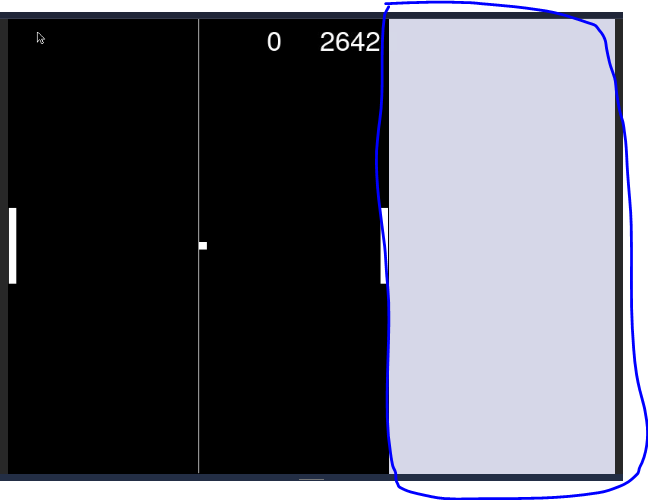
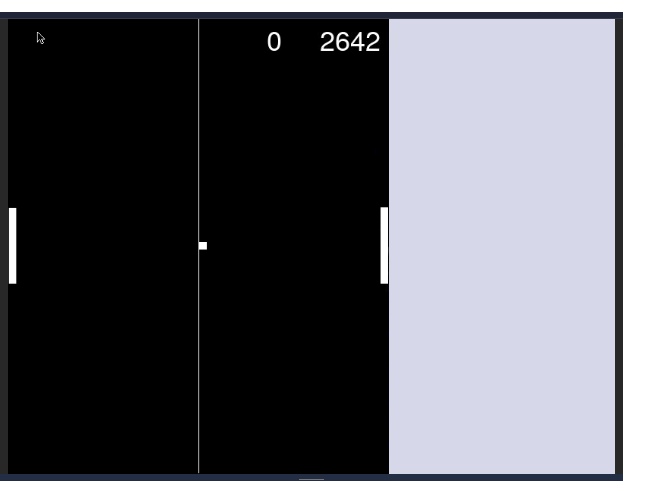
Clean up Images, Add Syntax Highlighting, Fix Spelling and Grammar (#211)
* Create image with cleaner highlight rectangle
* Spelling and grammar fixes
* Preserve old image without rectangle highlight
* Syntax highlighting for code snippets
* Update content/english/pygame-pong/Wrapup.md
* Add color picker

diff --git a/content/english/pygame-pong/the-basics.md b/content/english/pygame-pong/the-basics.md
@@ -8,17 +8,17 @@ draft: false
 ## Classes and objects
 Before you start building a game, you should know how to draw different objects and modify them as per the way they need to look and move on computer screen. 
 
-In order to build objects you first decide how they should look, what role they would perform in your game and how player can control their movement on screen. You do this by creating a class for each object you want on screen. 
-Before objects are created in a program you must define their class. A class is what tells how an individual object would look and behave. It contains the attributes and methods that its object can use during the lifetime of a program (in this case it is Pong game). You need to define class once and you can create as many objects you wish from that class. 
+In order to build objects, you first decide how they should look, what role they should perform in your game, and how player can control their movement on screen. You do this by creating a class for each object you want on screen. 
+Before objects are created in a program you must define their class. A class is what tells how an individual object will look and behave. It contains the attributes and methods that its object can use during the lifetime of a program (in this case it is Pong game). You only need to define a class once then you can use that class to create as many objects as you wish. 
 
-You cannot use class directly in a program, a class must have an object as its manifestation that is used in program. 
-All aspects related to visuals and movement we can call them as attribute of the object that you see on computer screen. 
-All aspects related to control of object we can call as them functions of the object. 
+You cannot use a class directly in a program; a class must have an object as its manifestation that is used in program. 
+All aspects related to visuals and movement are called the `"attributes"` of the object that you see on computer screen. 
+All aspects related to control of an object are called `"functions"` of the object. 
 
 
-## First, define the class for paddle used in game. To do this, let's type in:
+## First, define the class for paddle used in game. To do this, type in the following:
 
-```
+```python
 class Paddle(pygame.Rect):
     def __init__(self, velocity, up_key, down_key, *args, **kwargs):
         self.velocity = velocity
@@ -45,16 +45,16 @@ Let's try to understand the code in more detail.
 ## Name the class
 `class Paddle(pygame.Rect)`
 
-This is how you name the class `"Paddle"`. Now, notice the `pygame.Rect` inside `()`. You might have already imagined that in order to draw the paddle on a computer screen you need to draw it like a rectangle, then define its dimensions and position on screen to make it look like a paddle. The `(pygame.Rect)` statement would allow us to tell Python compiler to have this object draw like a rectangle and provide all rectangle's attributes to it like `WIDTH` and `HEIGHT`. This helps us utilising all attributes available to `Rectangle` class in Pygame library. 
+This is how you name the class `"Paddle"`. Now, notice the `pygame.Rect` inside `()`. You might have already imagined that in order to draw the paddle on a computer screen you need to draw it like a rectangle, then define its dimensions and position on screen to make it look like a paddle. The `(pygame.Rect)` statement allows us to tell the Python compiler to draw this object like a rectangle and provide all rectangle's attributes to it like `WIDTH` and `HEIGHT`. This helps us make use of all attributes available to the `Rectangle` class in the Pygame library. 
 
 ## Add attributes
 `def __init__(self, velocity, up_key, down_key, *args, **kwargs):`
 
-Dont worry about `args` and `kwargs` for now and focus on core attributes of `Paddle` class. 
+Don't worry about `args` and `kwargs` for now and focus on core attributes of `Paddle` class. 
 
-`__init__` function allow you to setup the class with attributes you need to see in objects. You can define additional attributes here on top of what you already get from `Rectangle` class. Lets add attributes like `velocity` , `up_key`, `down_key` to represent the speed at which paddle can move, keys needed for upward and downward movement of paddle. 
+`__init__` function allows you to setup the class with attributes you need to see in objects. You can define additional attributes here on top of what you already get from `Rectangle` class. Let's add attributes like `velocity`, `up_key`, `down_key` to represent the speed at which paddle can move, and the keys needed for upward and downward movement of the paddle. 
 
-```
+```python
 class Paddle(pygame.Rect):
     def __init__(self, velocity, up_key, down_key, *args, **kwargs):
         self.velocity = velocity
@@ -64,9 +64,9 @@ class Paddle(pygame.Rect):
 ```
 ## Add methods
 
-`move_paddle()` is a **method.**  We use this method to get paddle to perform move actions. In this case, `move_paddle()` is helping move paddle upward or downward depending on the key we press for respective direction at a certain speed.
+`move_paddle()` is a **method.**  We use this method to get paddle to perform move actions. In this case, `move_paddle()` moves the paddle upward or downward depending on the key we pressed, and at a certain speed.
 
-```
+```python
 def move_paddle(self, board_height):
         keys_pressed = pygame.key.get_pressed()
         if keys_pressed[self.up_key]:
@@ -79,4 +79,4 @@ def move_paddle(self, board_height):
 
 {{% /notice %}}
 
-Now that you have defined how a paddle should look like and how it should move, feel free to take a look at classes for `Ball` and `Pong`. In next Activities you will modify certain aspects of these classes to make the Pong game work for you.
+Now that you have defined how a paddle should look and how it should move, feel free to take a look at classes for `Ball` and `Pong`. In the next activities, you will modify certain aspects of these classes to make the Pong game work for you.

diff --git a/content/english/pygame-pong/using-repl-it.md b/content/english/pygame-pong/using-repl-it.md
@@ -5,13 +5,13 @@ weight: 1
 draft: false
 ---
 
-To build our game we will use the Pygame library, which provides a set of readymade functionality that we can use to build video games and animations.
+To build our game, we will use the Pygame library, which provides a set of readymade functionality that we can use to build Pong and its animations.
 
 ## Using Repl.it
 
-Today you will be using Repl.it to build the Pong game.
+Today, you will be using Repl.it to build the Pong game.
 
-If you would like to re-cap on how to use Repl.it. Checkout the following Python basics [tutorial](https://workshops.nuevofoundation.org/python-basics/repl-it/)
+If you would like a re-cap on how to use Repl.it, check out the following Python basics [tutorial](https://workshops.nuevofoundation.org/python-basics/repl-it/)
 
 Next, let's explain further some of the code that has been provided to you in the `main.py` file.
 
@@ -25,12 +25,11 @@ Look at the top of the code. You will see the following line:
 import pygame
 ```
 
-This statement allows us to import all of the animation and object drawing functionality provided by the `pygame` library. A **library** is a place where related functionality are grouped together for use in the Python language. For example, the `pygame` library provides a way to draw a rectangle on screen, which we can use to draw the boundaries, the ball and the paddles used in Pong game.
+This statement allows us to import all of the animation and object drawing functionality provided by the `pygame` library. A **library** is a place where related functionality is grouped together for use in the Python language. For example, the `pygame` library provides a way to draw a rectangle on screen, which we can use to draw the boundaries, the ball, and the paddles used in Pong game.
 
 ## Comments
 
-The gray line that starts with `#` is called a **comment**. These are notes in the code that helps to explain what is happening in plain English. As they are ignored by the computer, they are often used so that when other developers work on the same code, they will have an easier time reading and understanding what is going on.
-In `main.py` we will use comments to walk you through the activities where we need you to make changes to build the game in correct form. 
+The gray line that starts with `#` is called a **comment**. These are notes in the code that helps to explain what is happening in plain English. Comments are ignored by the computer; developers use comments to communicate with eact another especially when several developers are working on the same code. Comments also allow someone who is looking at the code to understand what is happening without having to read the code directly.
+In `main.py` we use comments to indicate where we need you to make changes to the code.
 
 {{% /notice %}}
-

diff --git a/content/english/pygame-pong/activity-2.md b/content/english/pygame-pong/activity-2.md
@@ -6,19 +6,20 @@ draft: false
 ---
 
 # Activity 2
-Great! You just fixed the game's boundary. Now, notice that how everything inside game looks black and white. Let's give it some colors. 
+Great! You just fixed the game's boundary. Now, notice how everything inside the game looks black and white. Let's give it some colors. 
 
 To do this, we need to modify the RGB values in `COLOR` attribute.
-RGB stands for RED, GREEN, BLUE. In computer screen you can modify the color of each pixel by modifying its RGB value. Every color can be represented by combination of different RGB values in it. The values are specified in same order as RGB is written.
+RGB stands for RED, GREEN, BLUE. In a computer screen, you can modify the color of each pixel by modifying its RGB value. Every color can be represented by combination of different RGB values in it. The values are specified in same order as RGB is written. Use the color picker below to find the RGB values for your favourite color:
+<input type="color" id="colorpicker" style="height:50px;width:50px">
 
-Find `// TODO (ACTIVITY 2)` in the code. Modify the `COLOR` attribute of `Pong` class. If you did this correctly, the objects will acquire the desired color. Confirm the result after pressing <b>run</b>.
+Find `// TODO (ACTIVITY 2)` in the code. Modify the `COLOR` attribute of `Pong` class. If you did this correctly, the objects will acquire the desired color. Press <b>run</b> and confirm the result.
 
 {{% notice tip %}}
 
-<h5>Feel free to use different RGB values to see the effect of color changes in game's objects.</h5>
+Try using different RGB values to see the effect of color changes on the game's objects.
 
 {{% /notice %}}
 
 
 ## Takeaway 
-You have just modified `COLOR` attribute in `Pong` class to influence how the objects will look on screen and how to modify the RGB values to get desired color.
+You have just modified the `COLOR` attribute in the `Pong` class to influence how the objects will look on screen. You learnt how to modify RGB values to get your desired color!

diff --git a/content/english/pygame-pong/activity-6.md b/content/english/pygame-pong/activity-6.md
@@ -6,19 +6,17 @@ draft: false
 ---
 
 # Activity 6
-You have come a long way, we hope you are enjoying!
+You have come a long way; we hope you are enjoying this workshop!
 
-In this activity you need to apply the knowledge about 'if' control structure you learnt in Python basics. 
+In this activity, you need to apply your knowledge of 'if' control structures you learned in the Python basics workshop. 
 
-Find `// TODO (ACTIVITY 6)` in the code. We have on purpose introduced an `'if'` block that is checking for wrong condition for tracking the score when right paddle miss the ball. This not only causing the wrong score to be displayed on screen , as well as it causing the ball to move in erratic manner. Can you figure out what 'condition' it should check for when right paddle miss the ball ? Feel free to ask if you need help in getting this right. 
+Find `// TODO (ACTIVITY 6)` in the code. We introduced an `'if'` block on purpose that has the wrong condition for tracking the score when the right paddle misses the ball. This not only causes the wrong score to be displayed on screen; it causes the ball to move in an erratic manner. Can you figure out what 'condition' the `'if` block should check for when the right paddle misses the ball? Ask the person beside you, or the workshop staff, if you need help.
 
 {{% notice tip %}}
 
-You may need to check the boundary value for horizontal position (represented by 'X' axis) of ball when right paddle misses it. Can you guess what value it should be ? 
-Confirm the result after pressing **run**.
+You may need to check the boundary value for the horizontal position (represented by 'X' axis) of the ball when the right paddle misses it. Can you guess what value it should be? Press **run** to confirm the result.
 
 {{% /notice %}}
 
-
 ## Takeaway 
-You have just fixed a condition for checking boundary values when ball moves horizontally out of boundary of game.
+You have just fixed a condition for checking boundary values when ball moves horizontally out of the game boundary.

diff --git a/content/english/pygame-pong/activity-5.md b/content/english/pygame-pong/activity-5.md
@@ -7,19 +7,17 @@ draft: false
 ---
 
 # Activity 5
-Great progress so far! Now lets make use of a variable to control font value. 
+Great progress so far! Now let's make use of a variable to change the font of the text in the game.
 
-In this activity you need to apply the knowledge about variables you learnt in Python basics. 
+In this activity, you need to apply the knowledge about variables you learned in Python basics. 
 
-Find `// TODO (ACTIVITY 5)` in the code. Declare a variable `font_label`, assign it the value `'arial'`. Now take a look at statement in code `font_name = pygame.font.match_font('arial')`. Can you figure out the place in this statement where you should use this new variable to control the font displayed on screen ? 
+Find `// TODO (ACTIVITY 5)` in the code. Declare the variable `font_label`, assign it the value `'arial'`. Now take a look at this statement in the code `font_name = pygame.font.match_font('arial')`. Can you figure out the place in this statement where you should use this new variable to control the font displayed on screen? 
 
 {{% notice tip %}}
 
-You can get different fonts supported in your system by running `pygame.font.get_fonts()`. Try using a different font than `'arial'`.
-Confirm the result after pressing **run**.
+You can get different fonts supported in your system by running `pygame.font.get_fonts()`. Try using a different font than `'arial'`. Which font do you like best? Press **run** to view the result.
 
 {{% /notice %}}
 
-
 ## Takeaway 
-You have just modified font parameter by using a variable. If you happen to use same font at multiple places in your program, then you can just modify variable at one place and it will take effect at all places where you have used that variable.
+You have just modified the font parameter by using a variable. If you happen to use the same font at multiple places in your program, you can just modify the variable in one place, and it will take effect everywhere you used the variable!

diff --git a/content/english/pygame-pong/activity-3.md b/content/english/pygame-pong/activity-3.md
@@ -6,17 +6,17 @@ draft: false
 ---
 
 # Activity 3
-Kudos! You not only fixed the game boundary, you are able to give color to objects too. Now let's see if you can change the keys for paddle movement. 
+Kudos! You not only fixed the game boundary, but you are able to give color to objects too. Now, let's see if you can change the keys for paddle movement.
 
-To do this, we need to modify one of the parameters we pass to create the left paddle object. Remember, from basics section how you defined the `Paddle` class with UP and DOWN key assignments as its attributes. 
+To do this, we need to modify one of the parameters we passed in when creating the left paddle object. Remember from the basics section, you defined the `Paddle` class with UP and DOWN key assignments as its attributes. 
 
-Find `// TODO (ACTIVITY 3)` in the code. Modify the appropriate attribute value for the left paddle so that pressing the 's' key moves the left paddle down. Notice that currently the downward movement of the left paddle is controlled by the 't' key. 
+Find `// TODO (ACTIVITY 3)` in the code. Modify the appropriate attribute value for the left paddle so that pressing the `'s'` key moves the left paddle down. Notice that currently the downward movement of the left paddle is controlled by the `'t'` key. 
 
 {{% notice tip %}}
 
-<h5>Feel free to experiment with the UP key to accept a different key. Confirm the result after pressing <b>run</b>.</h5>
+Try swapping the UP key with a different key. Press <b>run</b> to test your changes.
 
 {{% /notice %}}
 
 ## Takeaway 
-You have just modified `down_key` attribute in `Paddle` class to influence how the left paddle object should move in screen. 
+You have just modified `down_key` attribute in `Paddle` class to influence how the left paddle object should move on screen. 

diff --git a/content/english/pygame-pong/activity-7.md b/content/english/pygame-pong/activity-7.md
@@ -6,20 +6,19 @@ draft: false
 ---
 
 # Activity 7
-Time for final activity in this Tutorial; yay! You have done an awesome job to get here.
+Time for the final activity in this workshop; yay! You have done an awesome job getting here. You should be proud of yourself!
 
-In this activity you need to change the way game exits anytime by pressing a given key combination. 
+In this activity, you need to change the way the game exits anytime a given key combination is pressed. 
 
-Find `// TODO (ACTIVITY 7)` in the code. Pygame library gives you a handy way by using `event` to detect what keystrokes are being pressed anytime during the life of program. 
-Currently the game exits by pressing the `'BACKSPACE'` key. You should change it to exit by pressing `'ESC'` key on the keyboard.
+Find `// TODO (ACTIVITY 7)` in the code. The Pygame library gives you a handy way by using `event` to detect what keystrokes are being pressed anytime during the life of program. 
+Currently the game exits by pressing the `'BACKSPACE'` key. Change it so the game exits when the  `'ESC'` key is pressed on the keyboard.
 
 {{% notice tip %}}
 
-If the value of `'BACKSPACE`' key in Pygame library is `K_BACKSPACE` then can you guess the value of `'ESC` key? Give it few tries before you ask for help. 
-Confirm the result after pressing **run**.
+If the value of `'BACKSPACE`' key in Pygame library is `K_BACKSPACE`, then can you guess the value of the `'ESC` key? Give it few tries before you ask for help. 
+Press **run** to confirm the result.
 
 {{% /notice %}}
 
-
 ## Takeaway 
-You have just changed the way game should exit at any time while running.
+You have just changed the way game exits by listening for a specific key press.

diff --git a/content/english/pygame-pong/activity-1.md b/content/english/pygame-pong/activity-1.md
@@ -6,17 +6,17 @@ draft: false
 ---
 
 # Activity 1
-You can adjust the boundary of pong game by adjusting the height and width of rectangle that represent the boundary. 
+You can adjust the boundary of the Pong game by adjusting the height and width of the rectangle that represents the boundary. 
 
-Go to the code containing the Pong game. Press **run**. Notice that the game's boundary don't look right - see the below image. Let's fix this in this activity so that game boundary looks good.
+Go to the code containing the Pong game. Press **run**. Notice that the game's boundary doesn't look right - see the image below. Let's fix this in this activity, so the game boundary looks good.
 
-![](../media/width.PNG)
+![Pong game with incorrect boundary](../media/width-highlight.png)
 
-Find `// TODO (ACTIVITY 1)` in the code. Modify the `WIDTH` attribute of `Pong` class. If you did this correctly, boundary problem will be fixed. Confirm the result after pressing <b>run</b>.
+Find `// TODO (ACTIVITY 1)` in the code. Modify the `WIDTH` attribute of `Pong` class. If you did this correctly, the boundary problem will be fixed. Press <b>run</b> and observe the result.
 
 {{% notice tip %}}
 
-<h5>Feel free to use any other values on height and width attributes besides mentioned in Activity to see the effects of different values on game's boundary.</h5>
+Try changing the values for height and width to see the effects of different values on the game's boundary.
 
 {{% /notice %}}
 

diff --git a/content/english/pygame-pong/Wrapup.md b/content/english/pygame-pong/Wrapup.md
@@ -6,14 +6,12 @@ draft: false
 ---
 
 # Congratulations! You made it!
-**We are excited to see you making it here, hope you had fun while working on game and learnt concepts that help you making games**
+**We are excited to see you make it here! Hope you had fun working on your game and learning concepts that will help you make even better games**
 
 
 ## Now, it's your turn!
-We recommend to utilise the knowledge gained from this tutorial to make various interesting changes into game.
-- Add sets to the game, where each set is a first to 21 points. The player who wins the best of 3 sets will be declared as the winner.
-- Try adding difficulty level for player to choose. At each difficulty level the default speed of ball is increased. Can you guess which attribute of the `Ball` object you should change?
-- Can you assign player names to each side and let the user enter their preferred name before starting the game?
-
-
+Use the knowledge you gained from this tutorial to make various interesting changes to the game.
+- Add sets to the game, where a player wins a set when they reach 21 points. The player who wins the best of 3 sets will be declared the winner.
+- Try adding difficulty levels for the player to choose. At each difficulty level, the default speed of ball is increased. Can you guess which attribute of the `Ball` object you should change?
+- Assign player names to each side and let the user enter their preferred name before starting the game.
 

diff --git a/content/english/pygame-pong/activity-4.md b/content/english/pygame-pong/activity-4.md
@@ -6,18 +6,18 @@ draft: false
 ---
 
 # Activity 4
-So you know how to change key assignment for paddle's movement. Great work!
+Now you know how to change key assignments to control a paddle's movement. Great work!
 
-Can you apply the knowledge about Paddle object and its attributes that influence its movement on screen to change the key assignment for right paddle? 
+We have added movement for the left paddle. Can you apply the knowledge about the `Paddle` object and its attributes that influence its movement on screen to change the key assignment for the right paddle? 
 
-Find `// TODO (ACTIVITY 4)` in the code. Modify the appropriate attribute value for right paddle so that it accepts 'UP' key for upward movement of right paddle. 
+Find `// TODO (ACTIVITY 4)` in the code. Modify the appropriate attribute value for the right paddle such that pressing the `'UP'` key moves the right paddle up.
 
 {{% notice tip %}}
 
-<h5>Confirm the result after pressing <b>run</b>.</h5>
+Press <b>run</b> to confirm the result.
 
 {{% /notice %}}
 
 
 ## Takeaway 
-You have just modified `up_key` attribute in `Paddle` class to influence how the right paddle object should move in screen. 
+You have just modified `up_key` attribute in `Paddle` class to influence how the right paddle object should move on screen. 

diff --git a/content/english/pygame-pong/_index.md b/content/english/pygame-pong/_index.md
@@ -11,11 +11,11 @@ icon: "fab fa-python"
 
 # Introduction
 
-You may already know how to play Pong game in real life. How about building the game to be played on a computer? In this tutorial we will learn to use Python's Pygame library to build the Pong game. Sounds interesting, already?
+You may already know how to play Pong in real life. How about building your own version of Pong on your own computer? In this tutorial, we will learn to use Python's Pygame library to build Pong. Sound interesting?
 
 ![animation of pong game](https://media.giphy.com/media/xThuWtNFKZWG6fUFe8/giphy.gif)
 
-The goal of this activity is to use your Python knowledge to fix the code that we have provided at various places to make the game working and learn about Pygame library and its functions along the way. 
+The goal of this workshop is to use your Python knowledge to fix the code where indicated to make the game work and learn about Pygame library and its functions along the way. 
 
 ## Table of Contents
 
